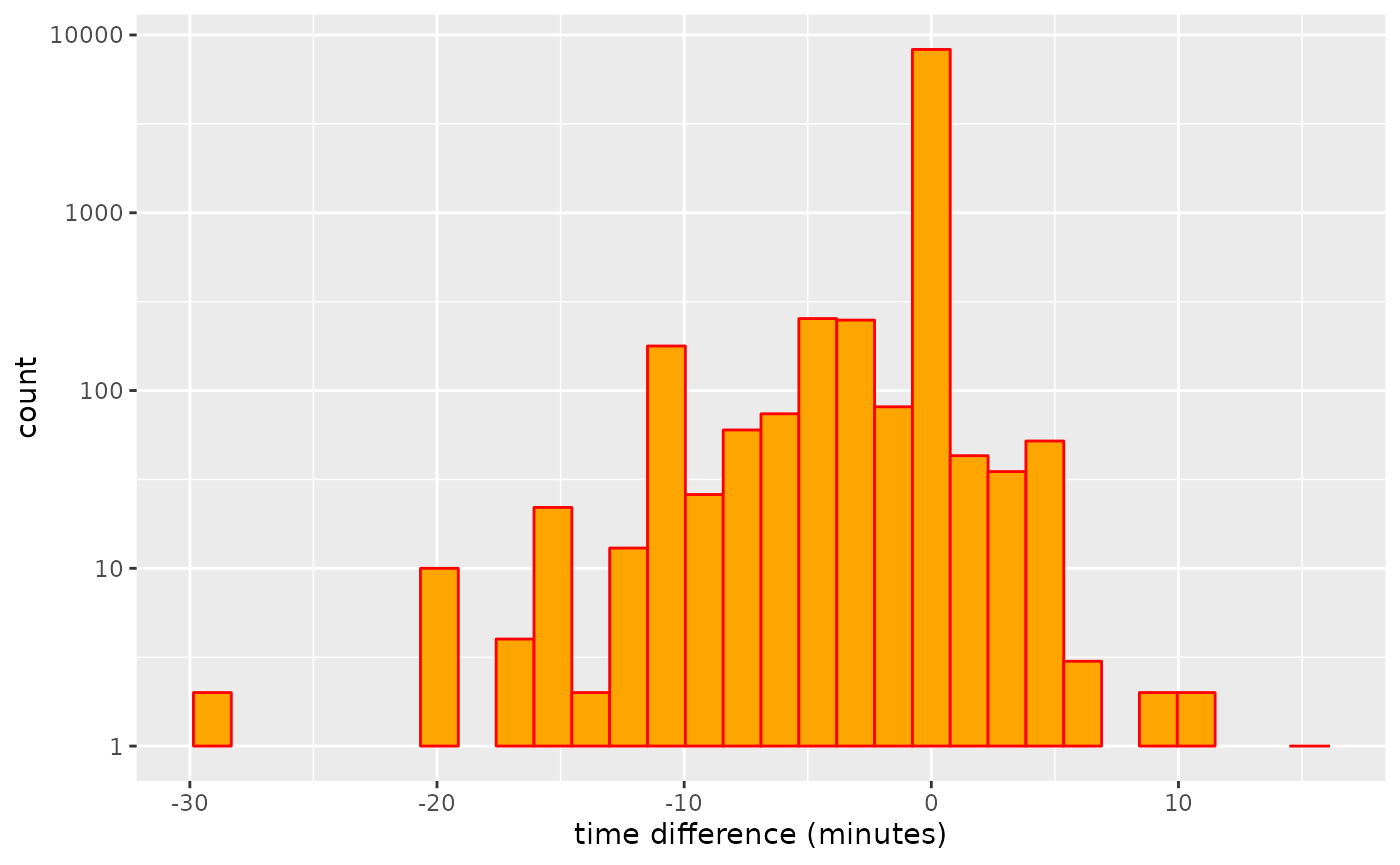
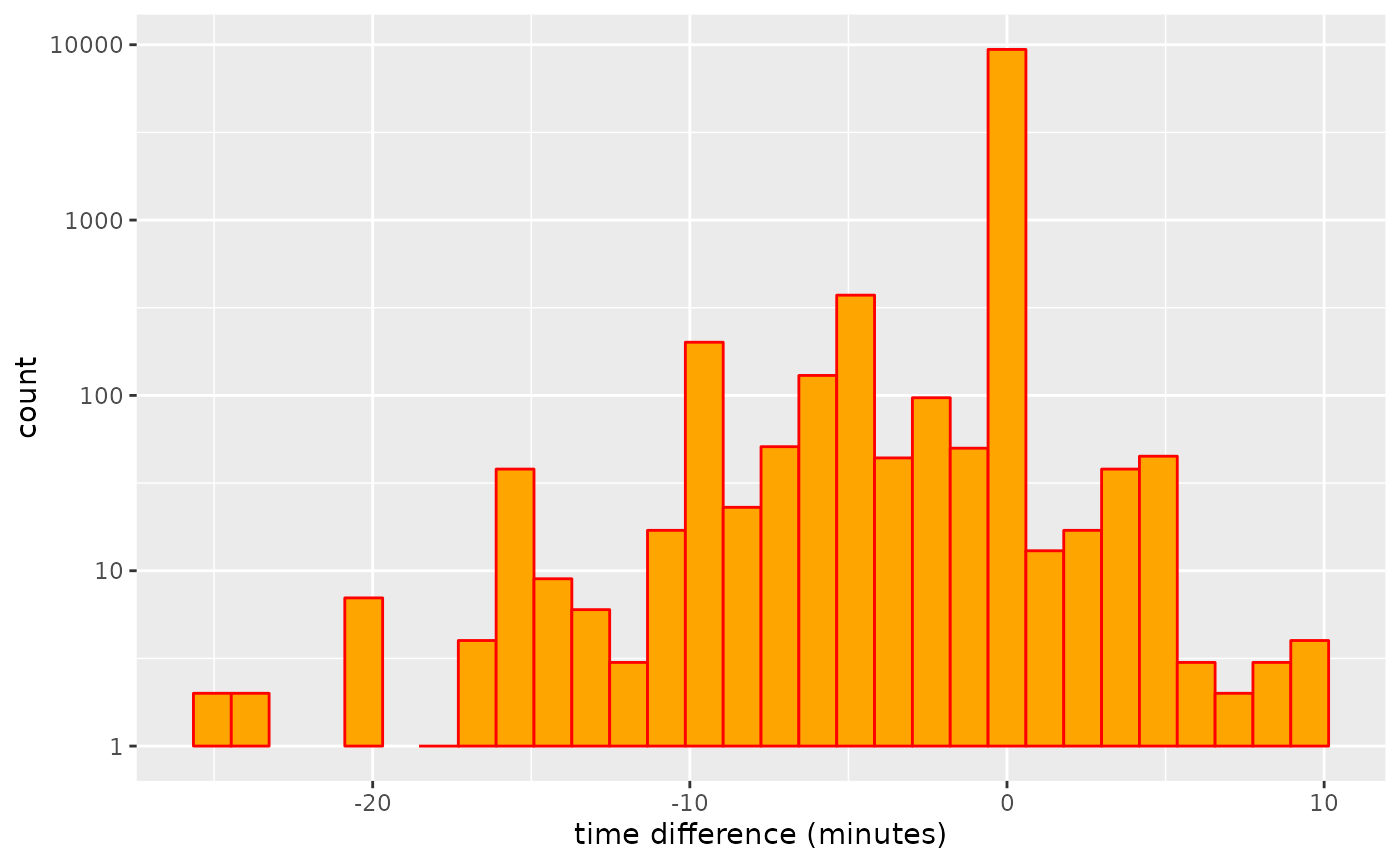
Deploying to gh-pages from @ ATFutures/gtfs-router@d3e852e2cc3c5ddbb4d48333f1e4c128c505205f 🚀

diff --git a/docs/articles/transfers.html b/docs/articles/transfers.html
@@ -33,7 +33,7 @@
       </button>
       <span class="navbar-brand">
         <a class="navbar-link" href="../index.html">gtfsrouter</a>
-        <span class="version label label-default" data-toggle="tooltip" data-placement="bottom" title="">0.0.5.059</span>
+        <span class="version label label-default" data-toggle="tooltip" data-placement="bottom" title="">0.0.5.061</span>
       </span>
     </div>
 
@@ -447,7 +447,7 @@
     <span class="fu"><a href="https://ggplot2.tidyverse.org/reference/scale_continuous.html" class="external-link">scale_y_log10</a></span> <span class="op">(</span><span class="op">)</span> <span class="op">+</span>
     <span class="fu"><a href="https://ggplot2.tidyverse.org/reference/labs.html" class="external-link">xlab</a></span> <span class="op">(</span><span class="st">"time difference (minutes)"</span><span class="op">)</span></code></pre></div>
 <p><img src="transfers_files/figure-html/plot1-1.png" width="700"></p>
-<p>And these additional transfer possibilities can make a significant difference to estimated travel times. Note, however, that the travel times only changed for 1045 stations, while the value of <code>nsame</code> value recording numbers of stations for which travel times did not change was 5,165. Travel times may also increase as additional transfers may be used to reduce numbers of connecting services required for a particular trip, and the algorithm generally searches for connections with minimal numbers of transfers.</p>
+<p>And these additional transfer possibilities can make a significant difference to estimated travel times. Note, however, that the travel times only changed for 1176 stations, while the value of <code>nsame</code> value recording numbers of stations for which travel times did not change was 4,492. Travel times may also increase as additional transfers may be used to reduce numbers of connecting services required for a particular trip, and the algorithm generally searches for connections with minimal numbers of transfers.</p>
 <p>The following code the quantifies the overall effect of these reductions in travel times, measured as the linear reduction in comparison with travel times calculated using the original transfers table provided with the feed. The function also returns the proportion of all stations for which travel times were affected by the modified transfer table.</p>
 <div class="sourceCode" id="cb42"><pre class="downlit sourceCode r">
 <code class="sourceCode R"><span class="va">transfer_difference</span> <span class="op">&lt;-</span> <span class="kw">function</span> <span class="op">(</span><span class="va">gtfs</span>,
@@ -514,7 +514,7 @@
     <span class="fu"><a href="https://ggplot2.tidyverse.org/reference/geom_point.html" class="external-link">geom_point</a></span> <span class="op">(</span>pch <span class="op">=</span> <span class="fl">19</span>, col <span class="op">=</span> <span class="st">"orange"</span><span class="op">)</span> <span class="op">+</span>
     <span class="fu"><a href="https://ggplot2.tidyverse.org/reference/geom_smooth.html" class="external-link">geom_smooth</a></span> <span class="op">(</span>method <span class="op">=</span> <span class="st">"loess"</span>, formula <span class="op">=</span> <span class="st">"y ~ x"</span><span class="op">)</span></code></pre></div>
 <p><img src="transfers_files/figure-html/transfer_d_limit_results-1.png" width="700"></p>
-<p>That result shows that travel times do decrease with increasing limits of maximal transfer distance, although the overall effect is very minimal. The object <code>d</code> also records the proportion of station pairs for which modifications to the transfers table actually changed travel times, which in this case amounts to a mean value of 0.0102, clearly revealing that very few trips actually change.</p>
+<p>That result shows that travel times do decrease with increasing limits of maximal transfer distance, although the overall effect is very minimal. The object <code>d</code> also records the proportion of station pairs for which modifications to the transfers table actually changed travel times, which in this case amounts to a mean value of 0.0073, clearly revealing that very few trips actually change.</p>
 <div class="section level3">
 <h3 id="a-more-realistic-example">A more realistic example<a class="anchor" aria-label="anchor" href="#a-more-realistic-example"></a>
 </h3>

diff --git a/docs/articles/gtfsrouter.html b/docs/articles/gtfsrouter.html
@@ -33,7 +33,7 @@
       </button>
       <span class="navbar-brand">
         <a class="navbar-link" href="../index.html">gtfsrouter</a>
-        <span class="version label label-default" data-toggle="tooltip" data-placement="bottom" title="">0.0.5.059</span>
+        <span class="version label label-default" data-toggle="tooltip" data-placement="bottom" title="">0.0.5.061</span>
       </span>
     </div>
 
@@ -95,7 +95,7 @@
 <p>The one thing neither of these packages enable is the use of GTFS data for transit routing. The <code>gtfsrouter</code> package enables both one-to-one and one-to-many routing. Functionality is demonstrated here through the sample data set included with the package, provided by the “Verkehrsverbund Berlin-Brandenburg” (VBB; or Transport Network Berlin-Brandenburg). The <code>berlin_gtfs</code> data represents a reduced version of the full GTFS data, containing only six tables, and a timetable reduced to the single hour between 12:00-13:00. Like all GTFS software including <a href="https://github.com/r-transit/tidytransit" class="external-link"><code>tidytransit</code></a>, this package is designed to work directly with GTFS data in <code>.zip</code>-archived format, and so includes a helper function, <code><a href="../reference/berlin_gtfs_to_zip.html">berlin_gtfs_to_zip()</a></code>, which exports the internal data set to a locally-stored <code>.zip</code> archive in the <code><a href="https://rdrr.io/r/base/tempfile.html" class="external-link">tempdir()</a></code> of the current <strong>R</strong> session. These data can be exported and re-imported with:</p>
 <div class="sourceCode" id="cb1"><pre class="downlit sourceCode r">
 <code class="sourceCode R"><span class="fu"><a href="../reference/berlin_gtfs_to_zip.html">berlin_gtfs_to_zip</a></span><span class="op">(</span><span class="op">)</span></code></pre></div>
-<pre><code><span class="co">## [1] "/tmp/RtmpZ30s6f/vbb.zip"</span></code></pre>
+<pre><code><span class="co">## [1] "/tmp/RtmpmLo1OU/vbb.zip"</span></code></pre>
 <div class="sourceCode" id="cb3"><pre class="downlit sourceCode r">
 <code class="sourceCode R"><span class="va">f</span> <span class="op">&lt;-</span> <span class="fu"><a href="https://rdrr.io/r/base/file.path.html" class="external-link">file.path</a></span> <span class="op">(</span><span class="fu"><a href="https://rdrr.io/r/base/tempfile.html" class="external-link">tempdir</a></span> <span class="op">(</span><span class="op">)</span>, <span class="st">"vbb.zip"</span><span class="op">)</span>
 <span class="fu"><a href="https://rdrr.io/r/base/files.html" class="external-link">file.exists</a></span> <span class="op">(</span><span class="va">f</span><span class="op">)</span></code></pre></div>
@@ -251,7 +251,7 @@
                 day <span class="op">=</span> <span class="st">"Sunday"</span><span class="op">)</span>
     <span class="op">)</span></code></pre></div>
 <pre><code><span class="co">##    user  system elapsed </span>
-<span class="co">##   0.059   0.000   0.060</span></code></pre>
+<span class="co">##   0.062   0.000   0.061</span></code></pre>
 <div class="sourceCode" id="cb14"><pre class="downlit sourceCode r">
 <code class="sourceCode R"><span class="fu"><a href="https://rdrr.io/r/base/names.html" class="external-link">names</a></span> <span class="op">(</span><span class="va">gtfs</span><span class="op">)</span></code></pre></div>
 <pre><code><span class="co">## [1] "calendar"   "routes"     "trips"      "stop_times" "stops"     </span>
@@ -269,7 +269,7 @@
                          to <span class="op">=</span> <span class="va">to</span>,
                          start_time <span class="op">=</span> <span class="st">"12:00:00"</span><span class="op">)</span><span class="op">)</span></code></pre></div>
 <pre><code><span class="co">##    user  system elapsed </span>
-<span class="co">##   0.046   0.000   0.046</span></code></pre>
+<span class="co">##   0.048   0.000   0.048</span></code></pre>
 <p>Note that the <code>day</code> parameter is used to extract the timetable, after which it is no longer required in the actual call to <code><a href="../reference/gtfs_route.html">gtfs_route()</a></code>.</p>
 </div>
 <div class="section level3">

diff --git a/docs/reference/gtfs_transfer_table.html b/docs/reference/gtfs_transfer_table.html
@@ -17,7 +17,7 @@
       </button>
       <span class="navbar-brand">
         <a class="navbar-link" href="../index.html">gtfsrouter</a>
-        <span class="version label label-default" data-toggle="tooltip" data-placement="bottom" title="">0.0.5.059</span>
+        <span class="version label label-default" data-toggle="tooltip" data-placement="bottom" title="">0.0.5.061</span>
       </span>
     </div>
 
@@ -99,7 +99,7 @@ throughout the underlying street network. If this is not provided as the
     <div id="ref-examples">
     <h2>Examples</h2>
     <div class="sourceCode"><pre class="sourceCode r"><code><span class="r-in"><span class="fu"><a href="berlin_gtfs_to_zip.html">berlin_gtfs_to_zip</a></span> <span class="op">(</span><span class="op">)</span></span>
-<span class="r-out co"><span class="r-pr">#&gt;</span> [1] "/tmp/RtmpxYpsms/vbb.zip"</span>
+<span class="r-out co"><span class="r-pr">#&gt;</span> [1] "/tmp/Rtmpr7fGAS/vbb.zip"</span>
 <span class="r-in"><span class="va">f</span> <span class="op">&lt;-</span> <span class="fu"><a href="https://rdrr.io/r/base/file.path.html" class="external-link">file.path</a></span> <span class="op">(</span><span class="fu"><a href="https://rdrr.io/r/base/tempfile.html" class="external-link">tempdir</a></span> <span class="op">(</span><span class="op">)</span>, <span class="st">"vbb.zip"</span><span class="op">)</span></span>
 <span class="r-in"><span class="va">g</span> <span class="op">&lt;-</span> <span class="fu"><a href="extract_gtfs.html">extract_gtfs</a></span> <span class="op">(</span><span class="va">f</span>, quiet <span class="op">=</span> <span class="cn">TRUE</span><span class="op">)</span></span>
 <span class="r-in"><span class="va">g</span> <span class="op">&lt;-</span> <span class="fu">gtfs_transfer_table</span> <span class="op">(</span><span class="va">g</span>, d_limit <span class="op">=</span> <span class="fl">200</span><span class="op">)</span></span>

diff --git a/docs/reference/gtfs_route.html b/docs/reference/gtfs_route.html
@@ -18,7 +18,7 @@ a specified time."><!-- mathjax --><script src="https://cdnjs.cloudflare.com/aja
       </button>
       <span class="navbar-brand">
         <a class="navbar-link" href="../index.html">gtfsrouter</a>
-        <span class="version label label-default" data-toggle="tooltip" data-placement="bottom" title="">0.0.5.059</span>
+        <span class="version label label-default" data-toggle="tooltip" data-placement="bottom" title="">0.0.5.061</span>
       </span>
     </div>
 
@@ -158,7 +158,7 @@ can be calculated by setting <code>earliest_arrival = FALSE</code>.</p>
     <div id="ref-examples">
     <h2>Examples</h2>
     <div class="sourceCode"><pre class="sourceCode r"><code><span class="r-in"><span class="fu"><a href="berlin_gtfs_to_zip.html">berlin_gtfs_to_zip</a></span> <span class="op">(</span><span class="op">)</span> <span class="co"># Write sample feed from Berlin, Germany to tempdir</span></span>
-<span class="r-out co"><span class="r-pr">#&gt;</span> [1] "/tmp/RtmpxYpsms/vbb.zip"</span>
+<span class="r-out co"><span class="r-pr">#&gt;</span> [1] "/tmp/Rtmpr7fGAS/vbb.zip"</span>
 <span class="r-in"><span class="va">f</span> <span class="op">&lt;-</span> <span class="fu"><a href="https://rdrr.io/r/base/file.path.html" class="external-link">file.path</a></span> <span class="op">(</span><span class="fu"><a href="https://rdrr.io/r/base/tempfile.html" class="external-link">tempdir</a></span> <span class="op">(</span><span class="op">)</span>, <span class="st">"vbb.zip"</span><span class="op">)</span> <span class="co"># name of feed</span></span>
 <span class="r-in"><span class="va">gtfs</span> <span class="op">&lt;-</span> <span class="fu"><a href="extract_gtfs.html">extract_gtfs</a></span> <span class="op">(</span><span class="va">f</span><span class="op">)</span></span>
 <span class="r-msg co"><span class="r-pr">#&gt;</span> ▶<span style="color: #00BB00;"> Unzipping GTFS archive</span></span>

diff --git a/docs/reference/berlin_gtfs.html b/docs/reference/berlin_gtfs.html
@@ -23,7 +23,7 @@ characters.'><!-- mathjax --><script src="https://cdnjs.cloudflare.com/ajax/libs
       </button>
       <span class="navbar-brand">
         <a class="navbar-link" href="../index.html">gtfsrouter</a>
-        <span class="version label label-default" data-toggle="tooltip" data-placement="bottom" title="">0.0.5.059</span>
+        <span class="version label label-default" data-toggle="tooltip" data-placement="bottom" title="">0.0.5.061</span>
       </span>
     </div>
 
@@ -94,7 +94,7 @@ for which no route is possible return <code>NULL</code>.</p>
     <div id="ref-examples">
     <h2>Examples</h2>
     <div class="sourceCode"><pre class="sourceCode r"><code><span class="r-in"><span class="fu"><a href="berlin_gtfs_to_zip.html">berlin_gtfs_to_zip</a></span> <span class="op">(</span><span class="op">)</span> <span class="co"># Write sample feed from Berlin, Germany to tempdir</span></span>
-<span class="r-out co"><span class="r-pr">#&gt;</span> [1] "/tmp/RtmpxYpsms/vbb.zip"</span>
+<span class="r-out co"><span class="r-pr">#&gt;</span> [1] "/tmp/Rtmpr7fGAS/vbb.zip"</span>
 <span class="r-in"><span class="va">f</span> <span class="op">&lt;-</span> <span class="fu"><a href="https://rdrr.io/r/base/file.path.html" class="external-link">file.path</a></span> <span class="op">(</span><span class="fu"><a href="https://rdrr.io/r/base/tempfile.html" class="external-link">tempdir</a></span> <span class="op">(</span><span class="op">)</span>, <span class="st">"vbb.zip"</span><span class="op">)</span> <span class="co"># name of feed</span></span>
 <span class="r-in"><span class="va">gtfs</span> <span class="op">&lt;-</span> <span class="fu"><a href="extract_gtfs.html">extract_gtfs</a></span> <span class="op">(</span><span class="va">f</span><span class="op">)</span></span>
 <span class="r-msg co"><span class="r-pr">#&gt;</span> ▶<span style="color: #00BB00;"> Unzipping GTFS archive</span></span>

diff --git a/docs/articles/traveltimes.html b/docs/articles/traveltimes.html
@@ -33,7 +33,7 @@
       </button>
       <span class="navbar-brand">
         <a class="navbar-link" href="../index.html">gtfsrouter</a>
-        <span class="version label label-default" data-toggle="tooltip" data-placement="bottom" title="">0.0.5.059</span>
+        <span class="version label label-default" data-toggle="tooltip" data-placement="bottom" title="">0.0.5.061</span>
       </span>
     </div>
 
@@ -86,7 +86,7 @@
 <div class="sourceCode" id="cb1"><pre class="downlit sourceCode r">
 <code class="sourceCode R"><span class="kw"><a href="https://rdrr.io/r/base/library.html" class="external-link">library</a></span> <span class="op">(</span><span class="va"><a href="https://github.com/ATFutures/gtfs-router" class="external-link">gtfsrouter</a></span><span class="op">)</span>
 <span class="fu"><a href="../reference/berlin_gtfs_to_zip.html">berlin_gtfs_to_zip</a></span> <span class="op">(</span><span class="op">)</span></code></pre></div>
-<pre><code><span class="co">## [1] "/tmp/Rtmp8eFqBV/vbb.zip"</span></code></pre>
+<pre><code><span class="co">## [1] "/tmp/RtmpLOHjSY/vbb.zip"</span></code></pre>
 <div class="sourceCode" id="cb3"><pre class="downlit sourceCode r">
 <code class="sourceCode R"><span class="va">f</span> <span class="op">&lt;-</span> <span class="fu"><a href="https://rdrr.io/r/base/file.path.html" class="external-link">file.path</a></span> <span class="op">(</span><span class="fu"><a href="https://rdrr.io/r/base/tempfile.html" class="external-link">tempdir</a></span> <span class="op">(</span><span class="op">)</span>, <span class="st">"vbb.zip"</span><span class="op">)</span>
 <span class="va">gtfs</span> <span class="op">&lt;-</span> <span class="fu"><a href="../reference/extract_gtfs.html">extract_gtfs</a></span> <span class="op">(</span><span class="va">f</span>, quiet <span class="op">=</span> <span class="cn">TRUE</span><span class="op">)</span>

diff --git a/docs/reference/gtfs_timetable.html b/docs/reference/gtfs_timetable.html
@@ -17,7 +17,7 @@
       </button>
       <span class="navbar-brand">
         <a class="navbar-link" href="../index.html">gtfsrouter</a>
-        <span class="version label label-default" data-toggle="tooltip" data-placement="bottom" title="">0.0.5.059</span>
+        <span class="version label label-default" data-toggle="tooltip" data-placement="bottom" title="">0.0.5.061</span>
       </span>
     </div>
 
@@ -115,7 +115,7 @@ that case will generally take longer.</p>
     <div id="ref-examples">
     <h2>Examples</h2>
     <div class="sourceCode"><pre class="sourceCode r"><code><span class="r-in"><span class="fu"><a href="berlin_gtfs_to_zip.html">berlin_gtfs_to_zip</a></span> <span class="op">(</span><span class="op">)</span> <span class="co"># Write sample feed from Berlin, Germany to tempdir</span></span>
-<span class="r-out co"><span class="r-pr">#&gt;</span> [1] "/tmp/RtmpxYpsms/vbb.zip"</span>
+<span class="r-out co"><span class="r-pr">#&gt;</span> [1] "/tmp/Rtmpr7fGAS/vbb.zip"</span>
 <span class="r-in"><span class="va">f</span> <span class="op">&lt;-</span> <span class="fu"><a href="https://rdrr.io/r/base/file.path.html" class="external-link">file.path</a></span> <span class="op">(</span><span class="fu"><a href="https://rdrr.io/r/base/tempfile.html" class="external-link">tempdir</a></span> <span class="op">(</span><span class="op">)</span>, <span class="st">"vbb.zip"</span><span class="op">)</span> <span class="co"># name of feed</span></span>
 <span class="r-in"><span class="va">gtfs</span> <span class="op">&lt;-</span> <span class="fu"><a href="extract_gtfs.html">extract_gtfs</a></span> <span class="op">(</span><span class="va">f</span><span class="op">)</span></span>
 <span class="r-msg co"><span class="r-pr">#&gt;</span> ▶<span style="color: #00BB00;"> Unzipping GTFS archive</span></span>

diff --git a/docs/reference/gtfs_traveltimes.html b/docs/reference/gtfs_traveltimes.html
@@ -18,7 +18,7 @@ other reachable station in a system."><!-- mathjax --><script src="https://cdnjs
       </button>
       <span class="navbar-brand">
         <a class="navbar-link" href="../index.html">gtfsrouter</a>
-        <span class="version label label-default" data-toggle="tooltip" data-placement="bottom" title="">0.0.5.059</span>
+        <span class="version label label-default" data-toggle="tooltip" data-placement="bottom" title="">0.0.5.061</span>
       </span>
     </div>
 
@@ -137,7 +137,7 @@ to reach all or most stations desired for a particular query, rather than set
     <div id="ref-examples">
     <h2>Examples</h2>
     <div class="sourceCode"><pre class="sourceCode r"><code><span class="r-in"><span class="fu"><a href="berlin_gtfs_to_zip.html">berlin_gtfs_to_zip</a></span> <span class="op">(</span><span class="op">)</span></span>
-<span class="r-out co"><span class="r-pr">#&gt;</span> [1] "/tmp/RtmpxYpsms/vbb.zip"</span>
+<span class="r-out co"><span class="r-pr">#&gt;</span> [1] "/tmp/Rtmpr7fGAS/vbb.zip"</span>
 <span class="r-in"><span class="va">f</span> <span class="op">&lt;-</span> <span class="fu"><a href="https://rdrr.io/r/base/file.path.html" class="external-link">file.path</a></span> <span class="op">(</span><span class="fu"><a href="https://rdrr.io/r/base/tempfile.html" class="external-link">tempdir</a></span> <span class="op">(</span><span class="op">)</span>, <span class="st">"vbb.zip"</span><span class="op">)</span></span>
 <span class="r-in"><span class="va">g</span> <span class="op">&lt;-</span> <span class="fu"><a href="extract_gtfs.html">extract_gtfs</a></span> <span class="op">(</span><span class="va">f</span><span class="op">)</span></span>
 <span class="r-msg co"><span class="r-pr">#&gt;</span> ▶<span style="color: #00BB00;"> Unzipping GTFS archive</span></span>

diff --git a/docs/reference/gtfs_isochrone.html b/docs/reference/gtfs_isochrone.html
@@ -18,7 +18,7 @@ instead."><!-- mathjax --><script src="https://cdnjs.cloudflare.com/ajax/libs/ma
       </button>
       <span class="navbar-brand">
         <a class="navbar-link" href="../index.html">gtfsrouter</a>
-        <span class="version label label-default" data-toggle="tooltip" data-placement="bottom" title="">0.0.5.059</span>
+        <span class="version label label-default" data-toggle="tooltip" data-placement="bottom" title="">0.0.5.061</span>
       </span>
     </div>
 
@@ -150,7 +150,7 @@ of all stations reachable to the specified <code>end_time</code>.</p>
     <div id="ref-examples">
     <h2>Examples</h2>
     <div class="sourceCode"><pre class="sourceCode r"><code><span class="r-in"><span class="fu"><a href="berlin_gtfs_to_zip.html">berlin_gtfs_to_zip</a></span> <span class="op">(</span><span class="op">)</span></span>
-<span class="r-out co"><span class="r-pr">#&gt;</span> [1] "/tmp/RtmpxYpsms/vbb.zip"</span>
+<span class="r-out co"><span class="r-pr">#&gt;</span> [1] "/tmp/Rtmpr7fGAS/vbb.zip"</span>
 <span class="r-in"><span class="va">f</span> <span class="op">&lt;-</span> <span class="fu"><a href="https://rdrr.io/r/base/file.path.html" class="external-link">file.path</a></span> <span class="op">(</span><span class="fu"><a href="https://rdrr.io/r/base/tempfile.html" class="external-link">tempdir</a></span> <span class="op">(</span><span class="op">)</span>, <span class="st">"vbb.zip"</span><span class="op">)</span></span>
 <span class="r-in"><span class="va">g</span> <span class="op">&lt;-</span> <span class="fu"><a href="extract_gtfs.html">extract_gtfs</a></span> <span class="op">(</span><span class="va">f</span><span class="op">)</span></span>
 <span class="r-msg co"><span class="r-pr">#&gt;</span> ▶<span style="color: #00BB00;"> Unzipping GTFS archive</span></span>

diff --git a/docs/reference/extract_gtfs.html b/docs/reference/extract_gtfs.html
@@ -17,7 +17,7 @@
       </button>
       <span class="navbar-brand">
         <a class="navbar-link" href="../index.html">gtfsrouter</a>
-        <span class="version label label-default" data-toggle="tooltip" data-placement="bottom" title="">0.0.5.059</span>
+        <span class="version label label-default" data-toggle="tooltip" data-placement="bottom" title="">0.0.5.061</span>
       </span>
     </div>
 
@@ -95,7 +95,7 @@ function to the two time columns of the "stop_times" table.</p>
     <div id="ref-examples">
     <h2>Examples</h2>
     <div class="sourceCode"><pre class="sourceCode r"><code><span class="r-in"><span class="fu"><a href="berlin_gtfs_to_zip.html">berlin_gtfs_to_zip</a></span> <span class="op">(</span><span class="op">)</span> <span class="co"># Write sample feed from Berlin, Germany to tempdir</span></span>
-<span class="r-out co"><span class="r-pr">#&gt;</span> [1] "/tmp/RtmpxYpsms/vbb.zip"</span>
+<span class="r-out co"><span class="r-pr">#&gt;</span> [1] "/tmp/Rtmpr7fGAS/vbb.zip"</span>
 <span class="r-in"><span class="va">f</span> <span class="op">&lt;-</span> <span class="fu"><a href="https://rdrr.io/r/base/file.path.html" class="external-link">file.path</a></span> <span class="op">(</span><span class="fu"><a href="https://rdrr.io/r/base/tempfile.html" class="external-link">tempdir</a></span> <span class="op">(</span><span class="op">)</span>, <span class="st">"vbb.zip"</span><span class="op">)</span> <span class="co"># name of feed</span></span>
 <span class="r-in"><span class="va">gtfs</span> <span class="op">&lt;-</span> <span class="fu">extract_gtfs</span> <span class="op">(</span><span class="va">f</span><span class="op">)</span></span>
 <span class="r-msg co"><span class="r-pr">#&gt;</span> ▶<span style="color: #00BB00;"> Unzipping GTFS archive</span></span>

diff --git a/docs/reference/summary.gtfs.html b/docs/reference/summary.gtfs.html
@@ -17,7 +17,7 @@
       </button>
       <span class="navbar-brand">
         <a class="navbar-link" href="../index.html">gtfsrouter</a>
-        <span class="version label label-default" data-toggle="tooltip" data-placement="bottom" title="">0.0.5.059</span>
+        <span class="version label label-default" data-toggle="tooltip" data-placement="bottom" title="">0.0.5.061</span>
       </span>
     </div>
 
@@ -79,7 +79,7 @@
     <div id="ref-examples">
     <h2>Examples</h2>
     <div class="sourceCode"><pre class="sourceCode r"><code><span class="r-in"><span class="fu"><a href="berlin_gtfs_to_zip.html">berlin_gtfs_to_zip</a></span> <span class="op">(</span><span class="op">)</span></span>
-<span class="r-out co"><span class="r-pr">#&gt;</span> [1] "/tmp/RtmpxYpsms/vbb.zip"</span>
+<span class="r-out co"><span class="r-pr">#&gt;</span> [1] "/tmp/Rtmpr7fGAS/vbb.zip"</span>
 <span class="r-in"><span class="va">f</span> <span class="op">&lt;-</span> <span class="fu"><a href="https://rdrr.io/r/base/file.path.html" class="external-link">file.path</a></span> <span class="op">(</span><span class="fu"><a href="https://rdrr.io/r/base/tempfile.html" class="external-link">tempdir</a></span> <span class="op">(</span><span class="op">)</span>, <span class="st">"vbb.zip"</span><span class="op">)</span></span>
 <span class="r-in"><span class="va">g</span> <span class="op">&lt;-</span> <span class="fu"><a href="extract_gtfs.html">extract_gtfs</a></span> <span class="op">(</span><span class="va">f</span><span class="op">)</span></span>
 <span class="r-msg co"><span class="r-pr">#&gt;</span> ▶<span style="color: #00BB00;"> Unzipping GTFS archive</span></span>

diff --git a/docs/authors.html b/docs/authors.html
@@ -17,7 +17,7 @@
       </button>
       <span class="navbar-brand">
         <a class="navbar-link" href="index.html">gtfsrouter</a>
-        <span class="version label label-default" data-toggle="tooltip" data-placement="bottom" title="">0.0.5.059</span>
+        <span class="version label label-default" data-toggle="tooltip" data-placement="bottom" title="">0.0.5.061</span>
       </span>
     </div>
 
@@ -74,13 +74,13 @@
 
     <p>Padgham M, Stepniak M (2022).
 <em>gtfsrouter: Routing with GTFS (General Transit Feed Specification) Data</em>.
-R package version 0.0.5.059, <a href="https://github.com/ATFutures/gtfs-router" class="external-link">https://github.com/ATFutures/gtfs-router</a>. 
+R package version 0.0.5.061, <a href="https://github.com/ATFutures/gtfs-router" class="external-link">https://github.com/ATFutures/gtfs-router</a>. 
 </p>
     <pre>@Manual{,
   title = {gtfsrouter: Routing with GTFS (General Transit Feed Specification) Data},
   author = {Mark Padgham and Marcin Stepniak},
   year = {2022},
-  note = {R package version 0.0.5.059},
+  note = {R package version 0.0.5.061},
   url = {https://github.com/ATFutures/gtfs-router},
 }</pre>
 
